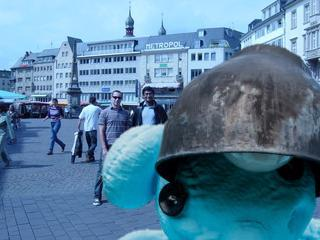
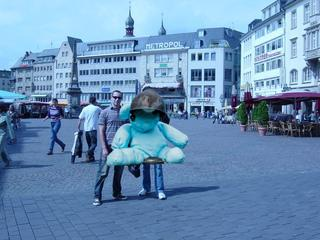
got some tensor output convertable to noisy image from known good model py

diff --git a/train.py b/train.py
@@ -1,0 +1,129 @@
+# class TrainModel():
+#     def __init__(self, num_epochs, train_image_path, train_mask_path, test_image_path, test_mask_path, optimizer, loss_func):
+
+#         for epoch in range(num_epochs):
+#             running_loss = 0
+#             running_accuracy = 0
+
+from model_known_good import UNET
+import time
+import torch
+import torch.nn as nn
+from PIL import Image
+import os
+import numpy as np
+
+my_path = os.path.dirname(__file__)
+
+
+def train(model, loss_fn, optimizer, acc_fn, epochs=1):
+    # start = time.time()
+    model.cuda()
+
+    train_loss, valid_loss = [], []
+
+    best_acc = 0.0
+
+    for epoch in range(epochs):
+        print('Epoch {}/{}'.format(epoch, epochs - 1))
+        print('-' * 10)
+
+        for phase in ['train', 'valid']:
+            if phase == 'train':
+                model.train(True)  # Set trainind mode = true
+                # dataloader = train_dl
+            else:
+                model.train(False)  # Set model to evaluate mode
+                # dataloader = valid_dl
+
+            running_loss = 0.0
+            running_acc = 0.0
+
+            step = 0
+
+            x_arr = np.array(Image.open(
+                my_path + '\processed_images\images\processed_0000047.jpg').convert('RGB'))
+            # moves the channels so image is 3, ..., ...
+            # x_arr = np.moveaxis(x_arr, -1, 0)
+            # print('x_arr: ', x_arr)
+            # add batch dimension using .unsqueeze
+            #
+            x = torch.from_numpy(x_arr).unsqueeze(0)
+            print(x.shape)
+            # make in the format of in_channels, batches, dim1, dim2
+            # float conversion because conv2d cannot support byte
+            # cuda because model is on GPU
+            # x = x.permute(3, 0, 2, 1).float().cuda()
+            x = x.permute(0, 3, 2, 1).float().cuda()
+            print(x.shape)
+            outputs = model(x)
+
+            # you can give axis attribute if you wanna squeeze in specific dimension
+            arr = outputs.detach().cpu().numpy()
+            arr = np.squeeze(arr)
+            img = Image.fromarray(arr, 'RGB')
+            img.save('my.png')
+            # plt.imshow(arr)
+            # plt.show()
+
+            # iterate over data
+            # for x, y in dataloader:
+            #     x = x.cuda()
+            #     y = y.cuda()
+            #     step += 1
+
+            # forward pass
+            # if phase == 'train':
+            #     # zero the gradients
+            #     optimizer.zero_grad()
+            #     outputs = model(x)
+            #     loss = loss_fn(outputs, y)
+
+            #     # the backward pass frees the graph memory, so there is no
+            #     # need for torch.no_grad in this training pass
+            #     loss.backward()
+            #     optimizer.step()
+            #     # scheduler.step()
+
+            # else:
+            #     with torch.no_grad():
+            #         outputs = model(x)
+            #         loss = loss_fn(outputs, y.long())
+
+            #     # stats - whatever is the phase
+            #     acc = acc_fn(outputs, y)
+
+            #     running_acc += acc*dataloader.batch_size
+            #     running_loss += loss*dataloader.batch_size
+
+            #     if step % 10 == 0:
+            #         # clear_output(wait=True)
+            #         print('Current step: {}  Loss: {}  Acc: {}  AllocMem (Mb): {}'.format(
+            #             step, loss, acc, torch.cuda.memory_allocated()/1024/1024))
+            #         # print(torch.cuda.memory_summary())
+
+            # epoch_loss = running_loss / 1
+            # epoch_acc = running_acc / 1
+
+            # print('{} Loss: {:.4f} Acc: {}'.format(
+            #     phase, epoch_loss, epoch_acc))
+
+            # train_loss.append(
+            #     epoch_loss) if phase == 'train' else valid_loss.append(epoch_loss)
+
+    # time_elapsed = time.time() - start
+    # print('Training complete in {:.0f}m {:.0f}s'.format(
+    #     time_elapsed // 60, time_elapsed % 60))
+
+    return train_loss, valid_loss
+
+
+def acc_metric(predb, yb):
+    return (predb.argmax(dim=1) == yb.cuda()).float().mean()
+
+
+unet = UNET()
+
+loss_fn = nn.CrossEntropyLoss()
+opt = torch.optim.Adam(unet.parameters(), lr=0.1)
+train_loss, valid_loss = train(unet, loss_fn, opt, acc_metric, 1)

diff --git a/load_dataset.py b/load_dataset.py
@@ -1,0 +1,30 @@
+import os
+from PIL import Image
+from torch.utils.data import Dataset
+import numpy as np
+
+
+class LoadDataset(Dataset):
+    def __init__(self, image_path, mask_path, transform=None):
+        self.image_path = image_path
+        self.mask_path = mask_path
+        self.transform = transform
+        self.images = os.listdir(image_path)
+
+    def __len__(self):
+        return len(self.images)
+
+    def __getitem__(self, index):
+        img_path = os.path.join(self.image_path, self.images[index])
+        mask_path = os.path.join(
+            self.mask_path, self.images[index])
+        image = np.array(Image.open(img_path).convert("RGB"))
+        mask = np.array(Image.open(mask_path).convert("L"), dtype=np.float32)
+        mask[mask == 255.0] = 1.0
+
+        if self.transform is not None:
+            augmentations = self.transform(image=image, mask=mask)
+            image = augmentations["image"]
+            mask = augmentations["mask"]
+
+        return image, mask

diff --git a/generate_dataset.py b/generate_dataset.py
@@ -49,7 +49,9 @@ class ProcessDataset():
         foreground = Image.open(
             my_path + "/blueno_original/blueno_cropped.png")
 
-        background.paste(foreground, (0, 0), foreground)
+        foreground.thumbnail((100, 100))
+
+        background.paste(foreground, (100, 80), foreground)
         return background
         # background.show()
 
